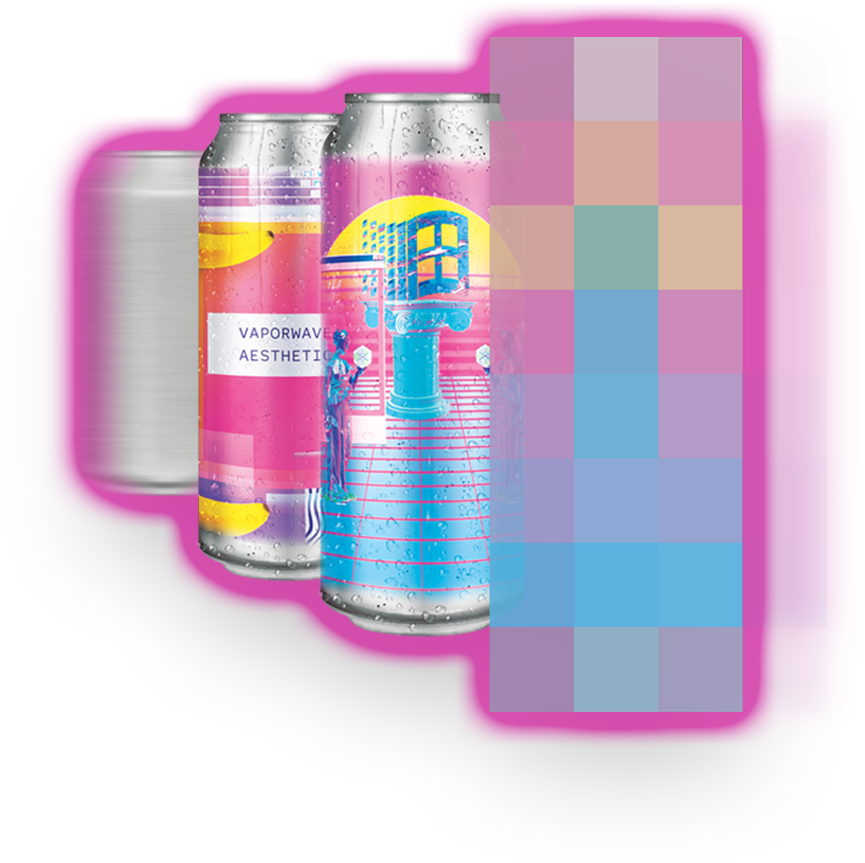
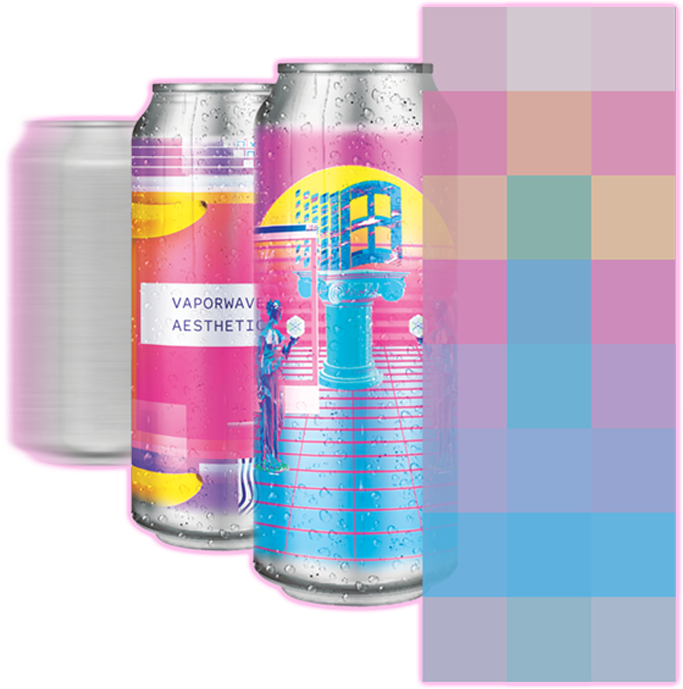
added parallax effect to images

diff --git a/beerpixel.html b/beerpixel.html
@@ -11,14 +11,30 @@
 		<div class="wrapper">
 			<header>
 				<img src="images\background\body background.png" class="background">
+
+				<img src="images\foreground\lateral scrolling parallax.png" class="lateral-bars"  >
 				<div class="foreground"> 
 					<img src="images\foreground\beer background homepage.png" class="beer-background"> 
+					<div class="freckles">
+						<img src="images\foreground\freckles.png" class="freckles-image">
+					</div>
 					<div class="beer-can">
 						<img src="images\foreground\label.png" class="beer-can-image">
 					</div>
 					<h1 class="title">PixelBeer</h1>
 				</div>
 			</header>
-			<section>Lorem, ipsum dolor sit amet consectetur adipisicing elit. Atque soluta blanditiis esse. Eaque minus autem sunt impedit voluptatum iste nostrum temporibus! Accusamus rerum velit quos dolor ab iure voluptatem unde, vitae aperiam nesciunt animi ipsum ratione iste provident obcaecati cum nemo sapiente error sed labore illo reiciendis voluptas cupiditate. Expedita ullam laborum cupiditate distinctio alias cumque repudiandae assumenda repellendus! At, voluptates reiciendis aspernatur minus repellat rem esse temporibus ab atque! Et ratione quisquam odit! Laboriosam dolores, accusamus repellendus veniam ipsum sint placeat omnis illo pariatur minus ipsam? Eos tenetur debitis ipsam quidem itaque maxime explicabo modi ab, odio dolorem, earum ullam saepe beatae sapiente quo ea culpa? Atque dolores quos laboriosam voluptates, ipsa architecto eligendi fuga facere consequuntur. Est sequi corporis voluptate itaque aspernatur mollitia reprehenderit ad nostrum magni vitae, quidem, doloribus, quod saepe distinctio enim a eum laborum perferendis sint ipsam molestias incidunt aperiam animi! Aperiam culpa alias fugiat officiis ut laborum error aliquam accusantium saepe nihil obcaecati at recusandae, repudiandae quae modi aliquid tempore deleniti consequuntur rem sint perspiciatis illum quibusdam animi? Neque, magni illum! Impedit pariatur dolorum provident deserunt, praesentium alias ex modi ipsam nesciunt qui, nobis dolor voluptate natus voluptatum illo officiis quia voluptatem aliquam facere.</section>
+			<section>
+				<div>
+					<div class="liquid">
+						<img src="images\foreground\liquid.png" class="liquid-image">
+					</div>
+				</div>
+				<div class="background-pres">
+					<img src="images\background\background shop.png"class="background-pres-image">
+				</div>
+			</section>
 		</div>
+		
+
 	</body>

diff --git a/style.css b/style.css
@@ -12,10 +12,11 @@ header{
   z-index: -1;
 }
 
-.background,.foreground{
+.background,.lateral-bars,.foreground{
   
   position: absolute;
   object-fit: cover;
+  display: flex;
   
 }
 .background{
@@ -24,6 +25,13 @@ header{
   width: 100%;
   
 }
+
+.lateral-bars{
+  transform: translateZ(-5px) scale(1.5);
+  height: 100%;
+  width: 100%;
+}
+
 .foreground{
   position: relative;
   align-items: center;
@@ -34,7 +42,8 @@ header{
   
 }
 
-.beer-background,.beer-can,.title{
+.beer-background,.beer-can,.title
+{
   position: absolute;
   object-fit: cover;
 }
@@ -42,9 +51,26 @@ header{
 .beer-background{
   transform: translateZ(-10px)scale(1.5);
 }
-.beer-can{
 
+.freckles{
+  transform: translateZ(-7px)scale(1.5);
+}
+
+.freckles-image{
+  animation: hover 2s cubic-bezier(0.04, 0.02, 1, 1);
+  animation-direction: reverse;
+  animation-iteration-count: infinite;
+}
+
+
+
+.beer-can{
+  
   transform: translateZ(-5px)scale(1);
+}
+.beer-can:hover{
+  filter: drop-shadow(0px 0px 30px rgb(255, 92, 214));
+  cursor:pointer;
 }
 
 .beer-can-image{
@@ -71,9 +97,20 @@ header{
   text-shadow: 0px 0px 10px grey;
 }
 
+.liquid,.background-pres{
+  
+  position: relative;
+  align-items: center;
+  resize: both;
+  display: flex;
+  justify-content: center;
+}
+
 .wrapper{
   height: 100vh;
   overflow-y: auto;
   overflow-x: hidden;
   perspective: 10px;
+  scroll-behavior: smooth;
+  scrollbar-width: 0px;
 }
